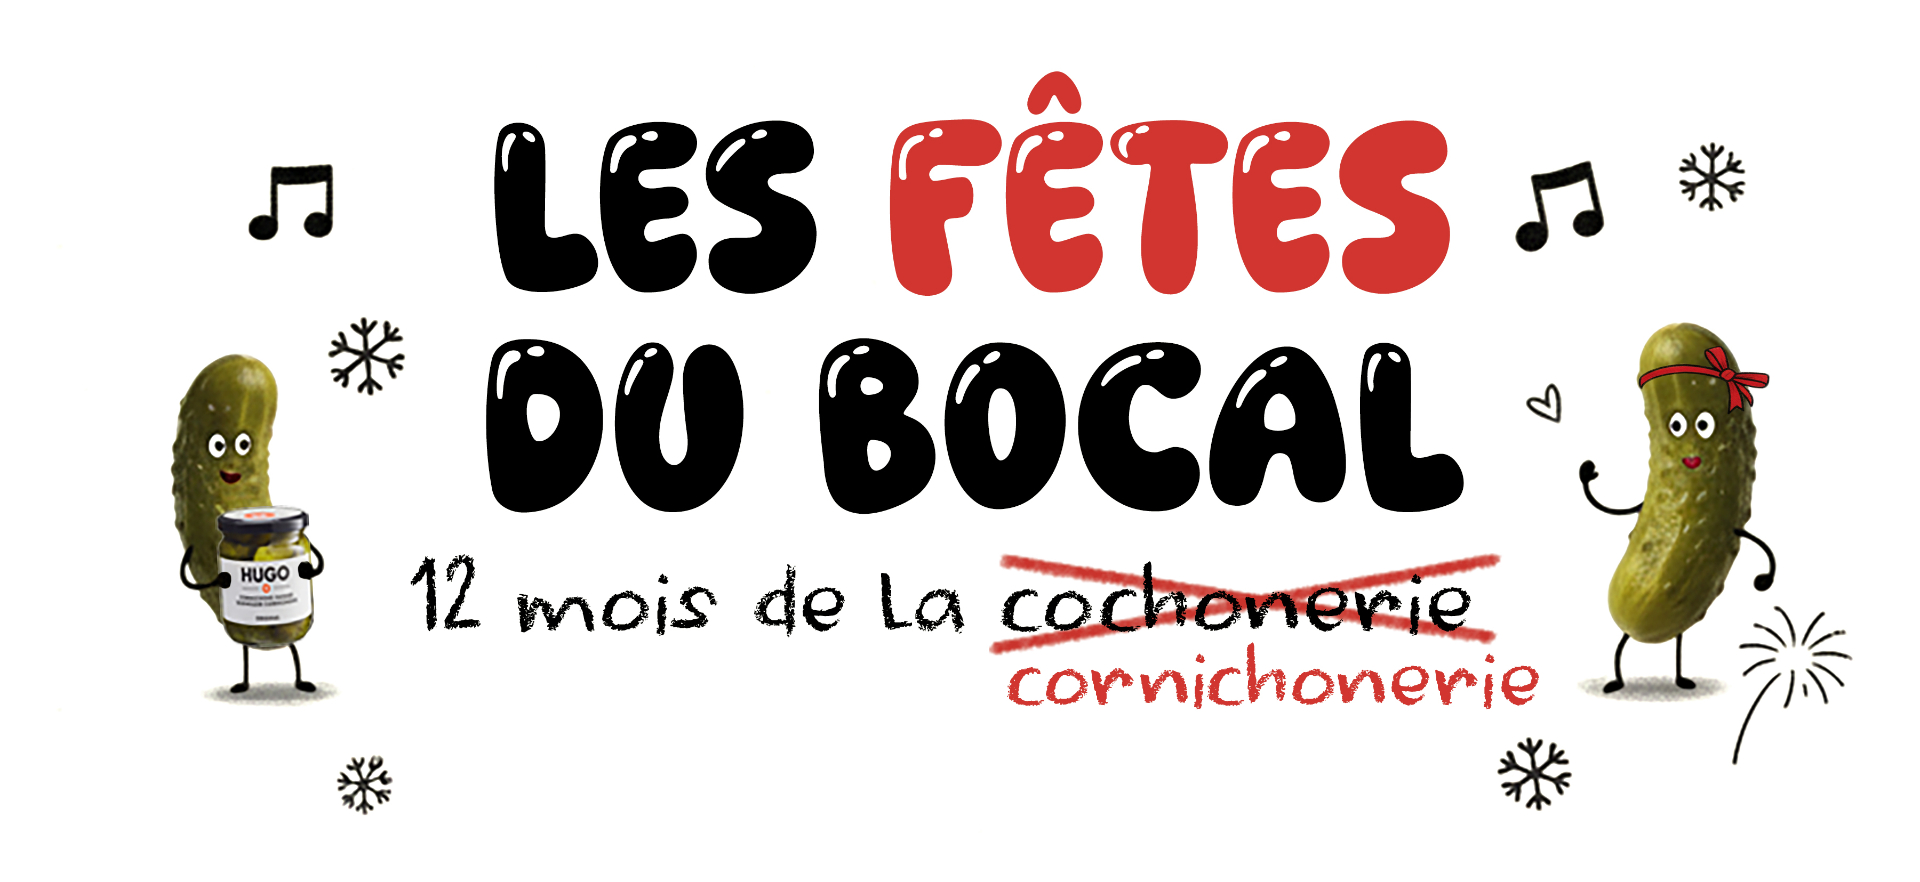
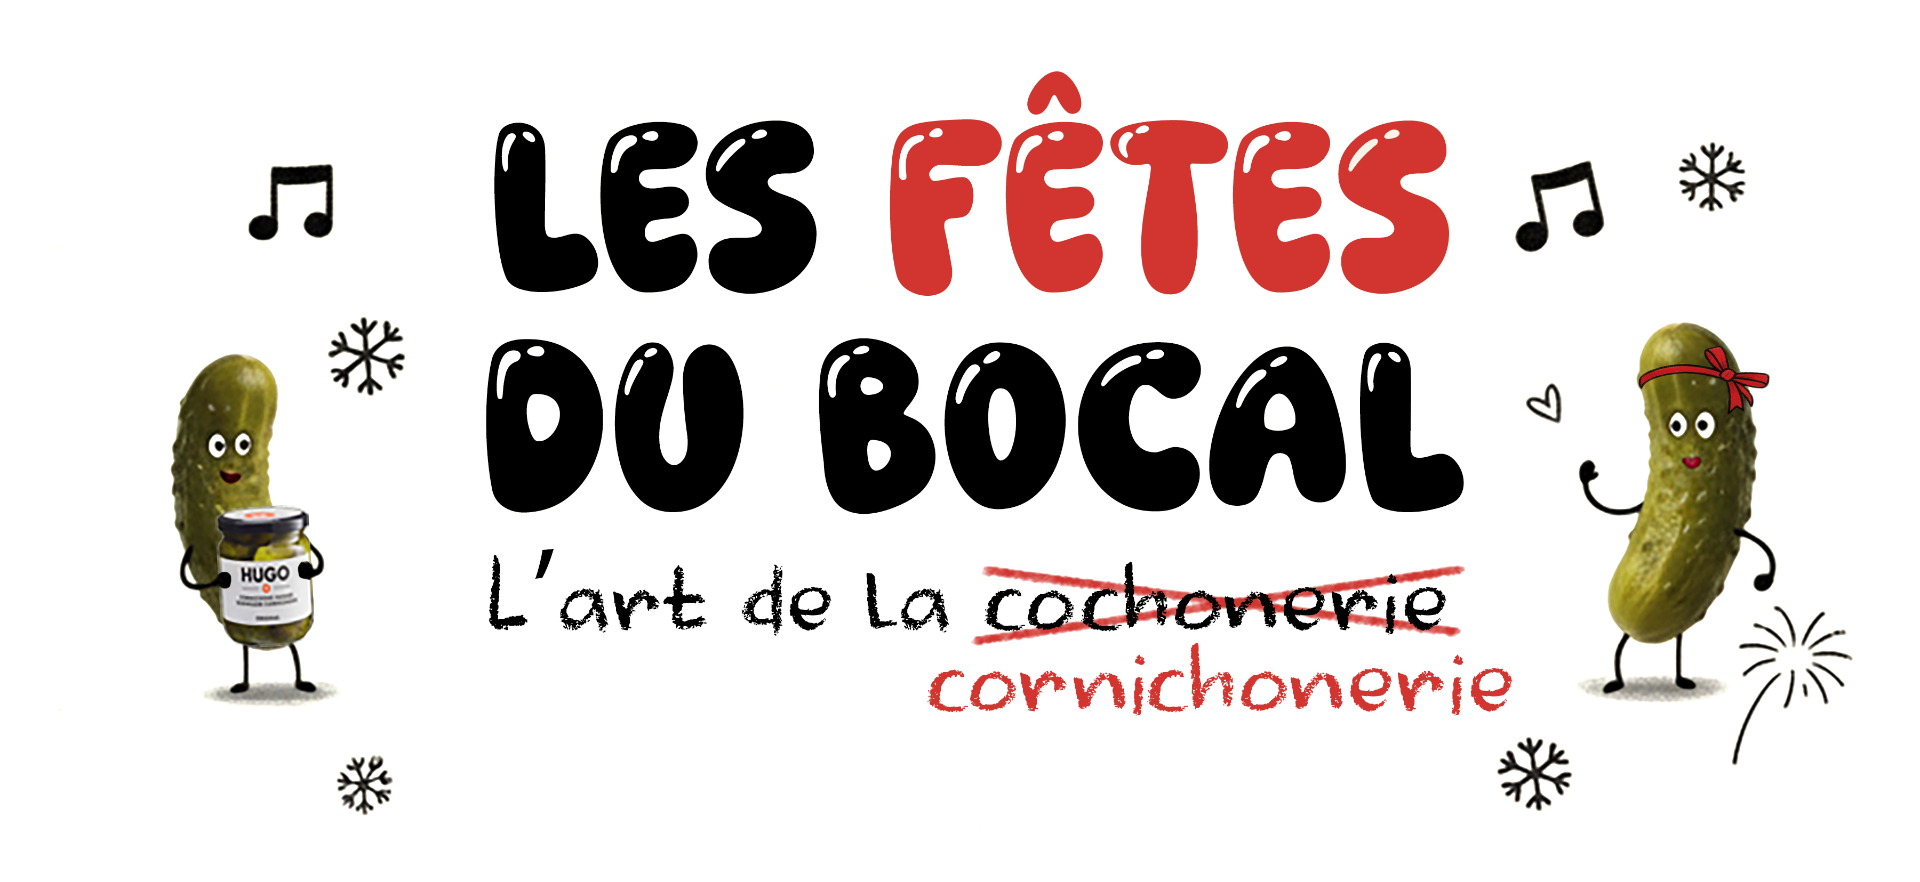
Replace title image

Changed region(s): [[0.2188, 0.6122, 0.8125, 0.8265], [0.6875, 0.1531, 0.7188, 0.1837]]

diff --git a/src/components/HeroSection.tsx b/src/components/HeroSection.tsx
@@ -1,4 +1,4 @@
-import titreImage from "@/assets/titre_Landing-page-2.jpg";
+import titreImage from "@/assets/titre_Landing-page.jpg";
 
 const HeroSection = () => {
   return (
